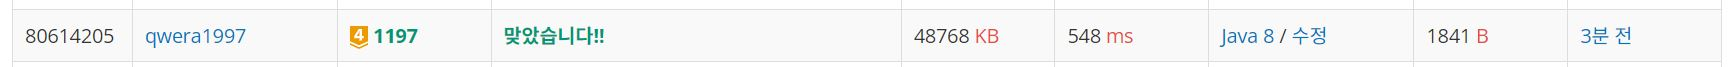
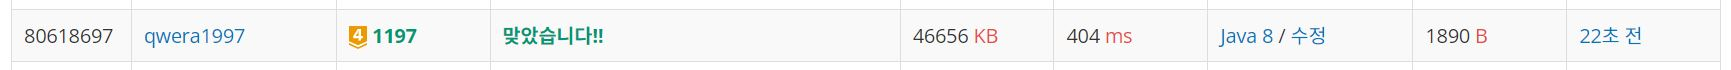
2024 07 07 home

diff --git a/month_07/src/day_07/BOJ_B4_28074/Main.java b/month_07/src/day_07/BOJ_B4_28074/Main.java
@@ -1,0 +1,23 @@
+package day_07.BOJ_B4_28074;
+
+import java.io.*;
+
+public class Main {
+    public static void main(String[] args) throws IOException {
+        BufferedReader br = new BufferedReader(new InputStreamReader(System.in));
+
+        int[] cntArr = new int[26];
+
+        char[] input = br.readLine().toCharArray();
+        for(char c : input){
+            cntArr[c - 'A']++;
+        }
+
+        if(cntArr[1] != 0 && cntArr[8] != 0 &&cntArr[12] != 0 &&cntArr[14] != 0 &&cntArr[18] != 0){
+            System.out.println("YES");
+        }
+        else{
+            System.out.println("NO");
+        }
+    }
+}

diff --git a/month_07/src/day_07/BOJ_B4_28074/Main2.java b/month_07/src/day_07/BOJ_B4_28074/Main2.java
@@ -1,0 +1,18 @@
+package day_07.BOJ_B4_28074;
+
+import java.io.*;
+
+public class Main2 {
+    public static void main(String[] args) throws IOException {
+        BufferedReader br = new BufferedReader(new InputStreamReader(System.in));
+
+        String input = br.readLine();
+
+        if(input.contains("M") && input.contains("O") && input.contains("B") && input.contains("I") && input.contains("S")){
+            System.out.println("YES");
+        }
+        else{
+            System.out.println("NO");
+        }
+    }
+}
